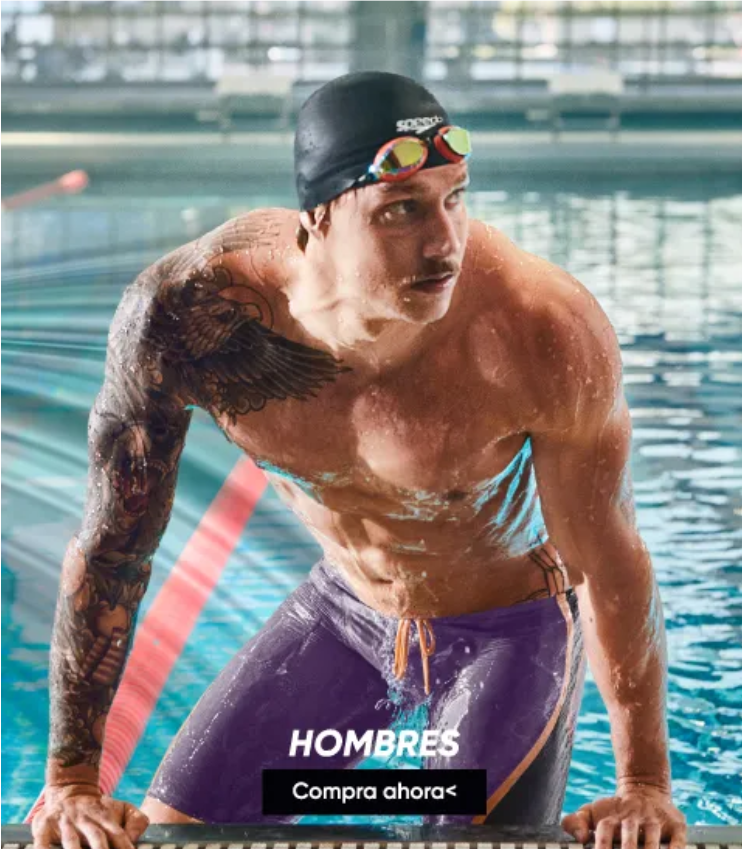
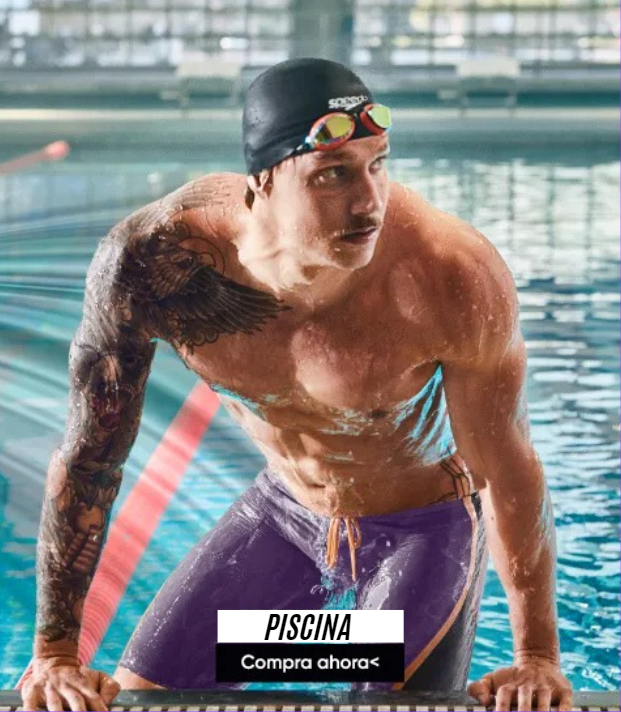
botones y info de new products

diff --git a/angular-oceanica/src/app/features/home/pages/home/home.component.html b/angular-oceanica/src/app/features/home/pages/home/home.component.html
@@ -11,6 +11,12 @@
       <div class="carousel-item">
           <img class="d-block w-100" src="assets/images/carrusel/img2.png" alt="Second slide">
       </div>
+      <div class="carousel-item">
+          <img class="d-block w-100" src="assets/images/carrusel/img3.png" alt="Second slide">
+      </div>
+      <div class="carousel-item">
+        <img class="d-block w-100" src="assets/images/carrusel/img4.png" alt="Second slide">
+      </div>
   </div>
   <a class="carousel-control-prev" href="#carouselExampleIndicators" role="button" data-slide="prev">
       <span class="carousel-control-prev-icon" aria-hidden="true"></span>
@@ -24,25 +30,25 @@
 
 <div class="mosaico">
   <div class="mosaico-item">
-    <img src="assets/images/mosaico/electronicaj.png" id="electronica" alt="Mujer" (click)="navigateToCategory('electronica')">
+    <img src="assets/images/mosaico/electronica.png" id="electronica" alt="Mujer" (click)="navigateToCategory('electronica')">
   </div>
   <div class="mosaico-item">
-    <img src="assets/images/mosaico/ropaj.png" id="ropa" alt="Gorros" (click)="navigateToCategory('ropa')">
+    <img src="assets/images/mosaico/ropa.png" id="ropa" alt="Gorros" (click)="navigateToCategory('ropa')">
   </div>
   <div class="mosaico-item">
-    <img src="assets/images/mosaico/buceoj.png" id="buceo" alt="Gafas" (click)="navigateToCategory('buceo')">
+    <img src="assets/images/mosaico/buceo.png" id="buceo" alt="Gafas" (click)="navigateToCategory('buceo')">
   </div>
   <div class="mosaico-item">
-    <img src="assets/images/mosaico/piscinaj.png" id="piscina" alt="Hombres" (click)="navigateToCategory('piscina')">
+    <img src="assets/images/mosaico/piscina.png" id="piscina" alt="Hombres" (click)="navigateToCategory('piscina')">
   </div>
   <div class="mosaico-item">
-    <img src="assets/images/mosaico/deportesj.png" id="deportes" alt="Niños" (click)="navigateToCategory('deportes')">
+    <img src="assets/images/mosaico/playaj.png" id="deportes" alt="Niños" (click)="navigateToCategory('deportes')">
   </div>
 </div>
 
 <div class="new-products">
   <div class="photo">
-    <img src="assets/images/image2.png" id="new-photo"  alt="Hombres">
+    <img src="assets/images/image.png" id="new-photo"  alt="Hombres">
   </div>
   <div class="carrusel">
     <img src="assets/images/titulo/image.png" id="title"  alt="Hombres">

diff --git a/angular-oceanica/src/app/shared/carousel/carousel.component.html b/angular-oceanica/src/app/shared/carousel/carousel.component.html
@@ -1,18 +1,39 @@
 <div class="gallery-wrap">
-    <i class="fa-solid fa-chevron-right" id="nextBtn"></i>
-    <div class="gallery">
-        <div>
-            <span><img src="assets/images/image.png"></span>
-            <span><img src="assets/images/image1.png"></span>
+    <i id="backBtn" class="fa-solid fa-chevron-left" (click)="scrollLeft()"></i>
+    <div class="gallery" #gallery>
+        <div class="product">
+            <img src="assets/images/imagee.png">
+            <div class="product-info">
+                <button class="quick-buy">COMPRA RÁPIDA</button>
+                <p class="product-name">Nombre del Producto</p>
+                <p class="product-price">$159.900 COP</p>
+            </div>
         </div>
-        <div>
-            <span><img src="assets/images/image.png"></span>
-            <span><img src="assets/images/image1.png"></span>
+        <div class="product">
+            <img src="assets/images/image1.png">
+            <div class="product-info">
+                <button class="quick-buy">COMPRA RÁPIDA</button>
+                <p class="product-name">Nombre del Producto</p>
+                <p class="product-price">$219.900 COP</p>
+            </div>
         </div>
-        <div>
-            <span><img src="assets/images/image.png"></span>
-            <span><img src="assets/images/image1.png"></span>
+        <div class="product">
+            <img src="assets/images/imagee.png">
+            <div class="product-info">
+                <button class="quick-buy">COMPRA RÁPIDA</button>
+                <p class="product-name">Nombre del Producto</p>
+                <p class="product-price">$159.900 COP</p>
+            </div>
         </div>
+        <div class="product">
+            <img src="assets/images/image1.png">
+            <div class="product-info">
+                <button class="quick-buy">COMPRA RÁPIDA</button>
+                <p class="product-name">Nombre del Producto</p>
+                <p class="product-price">$219.900 COP</p>
+            </div>
+        </div>
+        <!-- Puedes agregar más productos aquí -->
     </div>
-    <i class="fa-solid fa-chevron-left" id="nextBtn"></i>
+    <i id="nextBtn" class="fa-solid fa-chevron-right" (click)="scrollRight()"></i>
 </div>

diff --git a/angular-oceanica/src/app/features/home/pages/home/home.component.scss b/angular-oceanica/src/app/features/home/pages/home/home.component.scss
@@ -43,7 +43,7 @@
 
 #electronica {
   padding: 0px;
-  height: 85%;
+  height: 80%;
 }
 
 #deportes {
@@ -55,60 +55,60 @@
 
 #piscina {
   height: 100%;
-  margin-top: -10%;
+  margin-top: -15%;
 }
 
 .new-products {
   display: flex;
+  justify-content: center;
+  align-items: center;
   margin-top: 80px;
-}
-.new-products .photo {
-  width: 100%;
-  max-width: 39%;
+  position: relative; 
 }
 
-#new-photo {
-    max-width: 100%; /* Ajusta la imagen al ancho del contenedor 
-    height: auto; /* Mantiene la relación de aspecto */
-    object-fit: contain; /* Asegura que no se recorte */
+.new-products .photo {
+  flex: 1; 
+  max-width: 40%;
 }
 
 .carrusel {
   background-color: #f7f7f7;
-  width: 100%;
-  align-content: center;
+  flex: 1; 
+  display: flex;
+  flex-direction: column;
+  align-items: center;
+  padding-top: 40px; 
+  height: 100%;
 }
-
 
 #title {
-  max-width: 60%; /* Ajusta el tamaño de la imagen */
+  max-width: 60%; 
   margin: auto;
-  margin-top: -6%;
+  position: absolute;
+  top: -12%; 
+  text-align: center;
+  font-size: 2rem; 
 }
 
 
+#new-photo {
+  max-width: 100%;
+  height: auto;
+  object-fit: contain;
+}
 
-  /* Media query para pantallas de menos de 1024px */
+
 @media (max-width: 1024px) {
-  .mosaico {
-    
-    grid-template-columns: repeat(2, 1fr);
+  .new-products {
+    flex-direction: column; 
   }
-  .mosaico-item {
-      order: 0;
+
+  #title {
+    max-width: 80%;
+    top: -30px; 
   }
-  #electronica {
-    height: 100%;
-    width: 200%;
-  }/* Primera fila */
-  #piscina { 
-    width: 200%;
-  }     /* Segunda fila */
-  #ropa { order: 3; }        /* Tercera fila, primera columna */
-  #buceo { order: 3; }       /* Tercera fila, segunda columna */
-  #deportes { order: 5; }    /* Última fila */
 
   #new-photo {
-    display: none;
+    display: none; 
   }
 }

diff --git a/angular-oceanica/src/app/shared/carousel/carousel.component.scss b/angular-oceanica/src/app/shared/carousel/carousel.component.scss
@@ -1,52 +1,69 @@
-*{
+* {
     margin: 0;
-    padding: auto;
+    padding: 0;
     font-family: 'Poppins', sans-serif;
     box-sizing: border-box;
 }
 
-body{
+body {
     background-color: #000000;
 }
 
-.gallery{
-    width: 900px;
-    display: flex;
-    overflow-x: scroll;
-}
-
-.gallery div{
-    width: 100%;
-    display: grid;
-    grid-template-columns: auto auto auto;
-    grid-gap: 20px;
-    padding: 10px;
-    flex: none;
-}
-
-.gallery div img{
-    width: 100%;
-}
-
-.gallery::-webkit-scrollbar{
-    display: none;
-}
-
-.gallery-wrap{
+.gallery-wrap {
     display: flex;
     align-items: center;
     justify-content: center;
     margin: 0 auto;
 }
 
-#backBtn, #nextBtn {
-    width: 50px;
-    cursor: pointer;
-    margin: 40px;
+.gallery {
+    display: flex;
+    overflow: hidden;
+    width: 100%; 
+    max-width: 900px; 
+    scroll-behavior: smooth;
 }
 
-.gallery div img:hover{
+.gallery div {
+    flex: 0 0 50%; 
+    display: flex;
+    justify-content: center;
+    padding: 10px;
+}
+
+.gallery div img {
+    width: 100%;
+    max-height: 500px; 
+    object-fit: cover; 
+    transition: transform 0.3s ease;
+}
+
+.gallery div img:hover {
     filter: grayscale(0);
     cursor: pointer;
     transform: scale(1.1);
 }
+
+#backBtn, #nextBtn {
+    width: 50px;
+    cursor: pointer;
+    margin: 20px;
+    font-size: 2rem;
+    color: white;
+}
+
+@media (max-width: 768px) {
+    .gallery {
+        max-width: 100%; 
+    }
+    
+    .gallery div {
+        flex: 0 0 100%; 
+    }
+
+    #backBtn, #nextBtn {
+        font-size: 1.5rem; 
+        margin: 10px;
+    }
+}
+

diff --git a/angular-oceanica/src/app/shared/carousel/carousel.component.ts b/angular-oceanica/src/app/shared/carousel/carousel.component.ts
@@ -1,18 +1,30 @@
-import { Component } from '@angular/core'; 
+import { Component, ElementRef, ViewChild, AfterViewInit } from '@angular/core';
 
 @Component({
   selector: 'app-carousel',
   standalone: true,
   imports: [],
   templateUrl: './carousel.component.html',
-  styleUrl: './carousel.component.scss'
+  styleUrls: ['./carousel.component.scss']
 })
-export class CarouselComponent {
+export class CarouselComponent implements AfterViewInit {
+  @ViewChild('gallery') scrollContainer!: ElementRef;
 
-  <script>
-    let scrollContainer = document.querySelector(".gallery")
-    let btnBtn = document.getElementById("backBtn")
-    let nextBtn = document.getElementById("nextBtn")
-  <script>
+  ngAfterViewInit() {
+    // Add wheel scroll event listener
+    this.scrollContainer.nativeElement.addEventListener("wheel", (evt: WheelEvent) => {
+      evt.preventDefault();
+      this.scrollContainer.nativeElement.scrollLeft += evt.deltaY;
+    });
+  }
 
+  scrollLeft() {
+    const itemWidth = this.scrollContainer.nativeElement.firstElementChild.offsetWidth;
+    this.scrollContainer.nativeElement.scrollLeft -= itemWidth;
+  }
+
+  scrollRight() {
+    const itemWidth = this.scrollContainer.nativeElement.firstElementChild.offsetWidth;
+    this.scrollContainer.nativeElement.scrollLeft += itemWidth;
+  }
 }

diff --git a/angular-oceanica/src/app/shared/footer/footer.component.scss b/angular-oceanica/src/app/shared/footer/footer.component.scss
@@ -3,7 +3,7 @@ footer {
   background-color: #4a4a4a;
   font-size: 14px;
   position: relative;
-  margin-top: 100px;
+  margin-top: 200px;
 }
 
 .footer-top {
